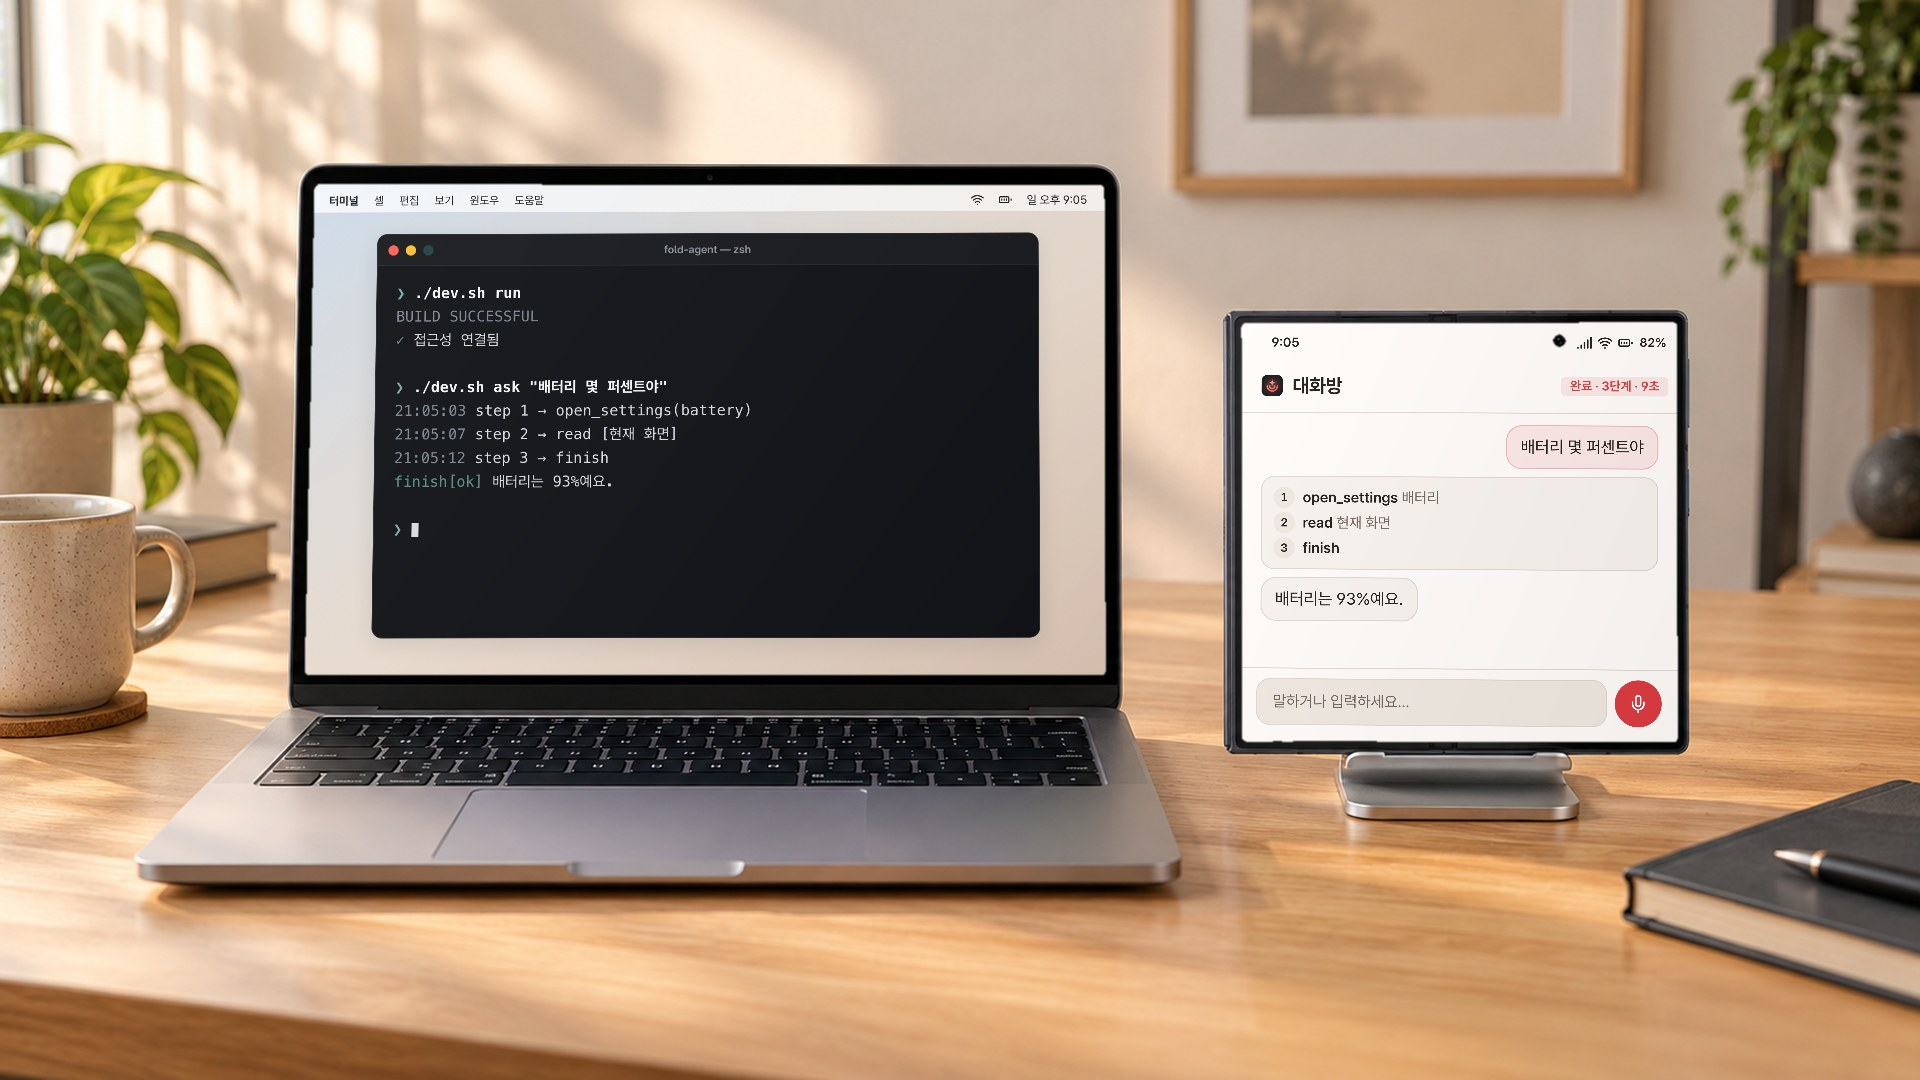
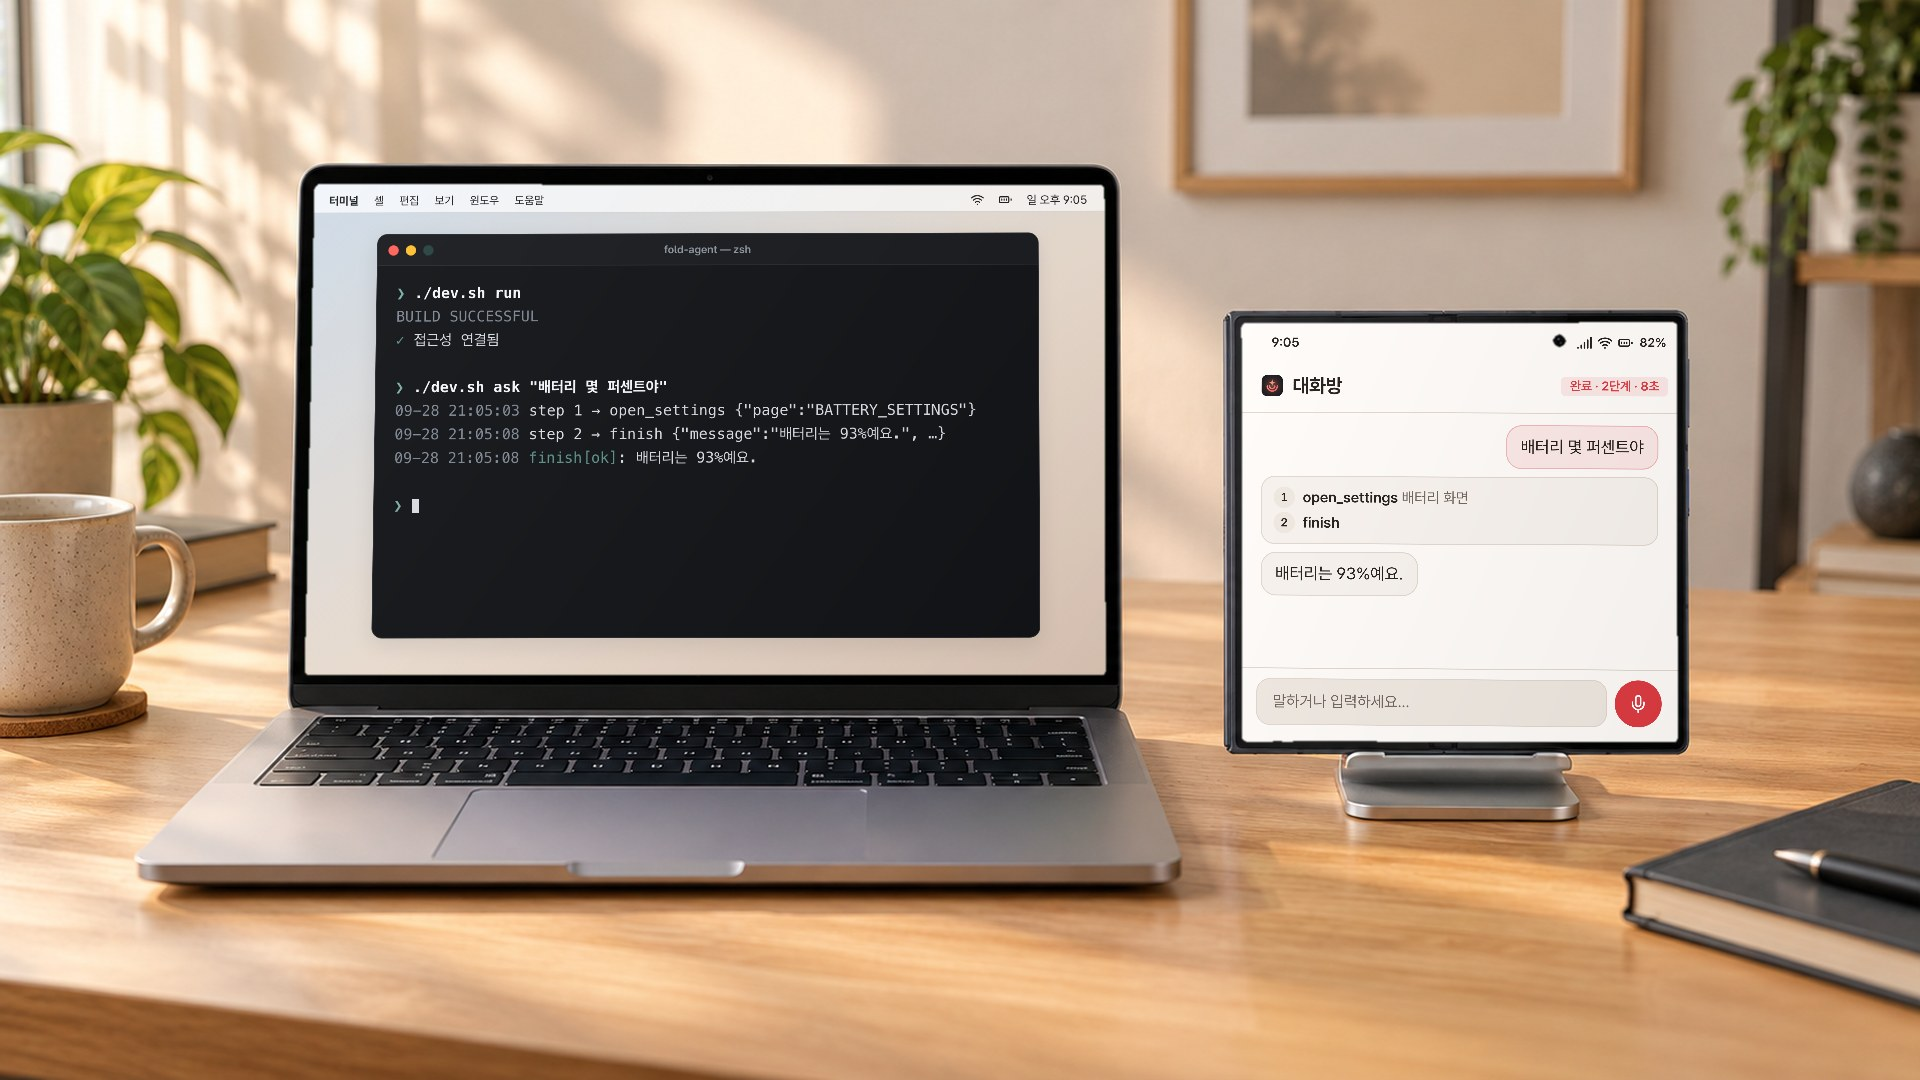
docs: scene fixes
Scene 3 showed a nonexistent 'read' tool; match the real dev.sh ask log format.

Changed region(s): [[0.1875, 0.3667, 0.5, 0.4583], [0.6562, 0.4583, 0.7188, 0.5806]]

diff --git a/docs/mockups/scenes/03-mac-phone.html b/docs/mockups/scenes/03-mac-phone.html
@@ -18,14 +18,13 @@
       <img class="mark" data-app="foldagent" alt="">
       <span class="title">대화방</span>
       <span class="spacer"></span>
-      <span class="tag accent" style="font-size:13px; padding:3px 9px">완료 · 3단계 · 9초</span>
+      <span class="tag accent" style="font-size:13px; padding:3px 9px">완료 · 2단계 · 8초</span>
     </div>
     <div class="content room">
       <div class="msg me">배터리 몇 퍼센트야</div>
       <div class="steps">
-        <div class="step"><span class="n">1</span><span><b>open_settings</b> 배터리</span></div>
-        <div class="step"><span class="n">2</span><span><b>read</b> 현재 화면</span></div>
-        <div class="step"><span class="n">3</span><span><b>finish</b></span></div>
+        <div class="step"><span class="n">1</span><span><b>open_settings</b> 배터리 화면</span></div>
+        <div class="step"><span class="n">2</span><span><b>finish</b></span></div>
       </div>
       <div class="msg">배터리는 93%예요.</div>
     </div>

diff --git a/docs/mockups/scenes/03-mac-terminal.html b/docs/mockups/scenes/03-mac-terminal.html
@@ -20,10 +20,9 @@
 <span class="t-ok">✓</span> 접근성 연결됨
 
 <span class="t-prompt">❯</span> <span class="t-b">./dev.sh ask "배터리 몇 퍼센트야"</span>
-<span class="t-dim">21:05:03</span> step 1 → open_settings(battery)
-<span class="t-dim">21:05:07</span> step 2 → read [현재 화면]
-<span class="t-dim">21:05:12</span> step 3 → finish
-<span class="t-ok">finish[ok]</span> 배터리는 93%예요.
+<span class="t-dim">09-28 21:05:03</span> step 1 → open_settings {"page":"BATTERY_SETTINGS"}
+<span class="t-dim">09-28 21:05:08</span> step 2 → finish {"message":"배터리는 93%예요.", …}
+<span class="t-dim">09-28 21:05:08</span> <span class="t-ok">finish[ok]</span>: 배터리는 93%예요.
 
 <span class="t-prompt">❯</span> <span class="t-cursor"></span></div>
   </div>
